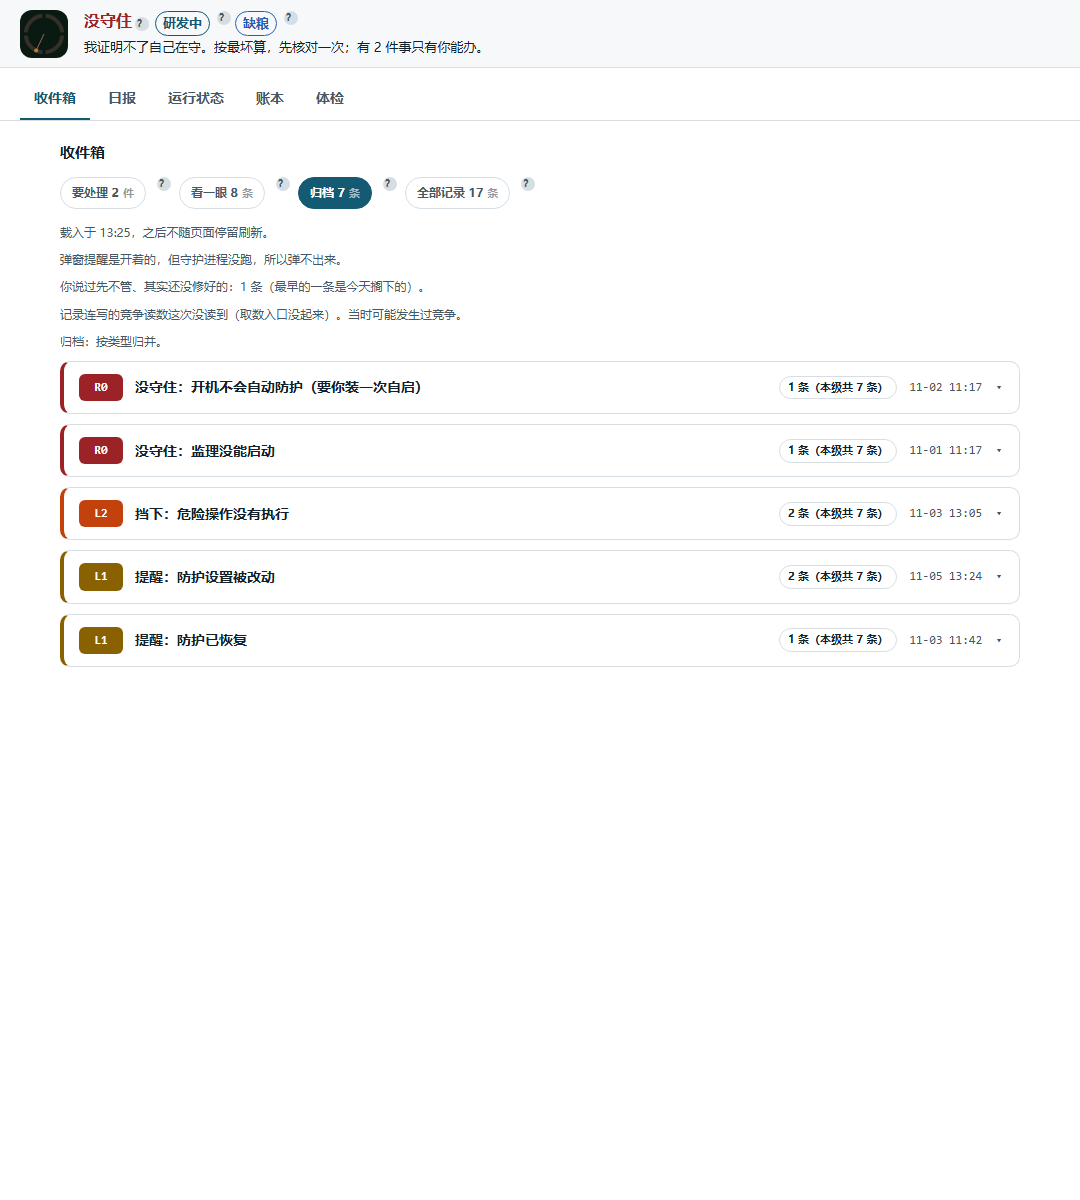
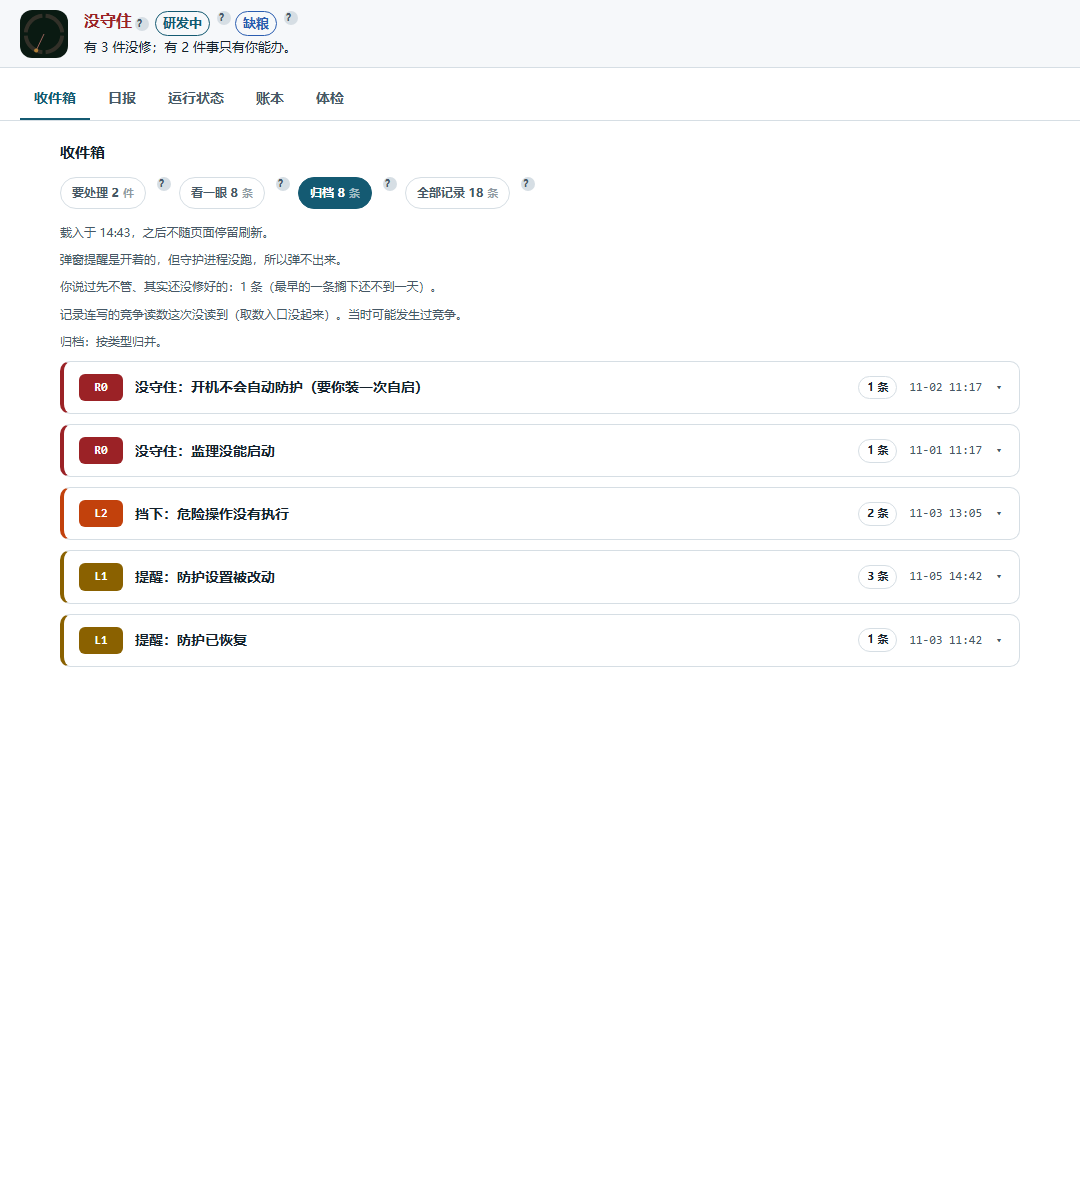
F3 走查收口：修 0.59.0 误删的通知常量 + 两处页面读数自相矛盾
## 一、页面（创始人截图指出「没什么变化」后逐字核对）

1. 看一眼 / 归档的归并行，每行印「3 条（本级共 8 条）」
   - 取证：满态夹具 8 条，L2 行印 8、L1 行也印 8。那个 8 是**整档**条数，
     不是这一级条数；「本级」会被读成「这一级共 8 条」，与行内真正的 3 条矛盾。
   - 整档条数在筛选条与顶部「看一眼 8 条」各出现一次，此行再印＝同一个数
     第三个落点，违 0.37.1「数字只出现一次」。
   - 改：只留「3 条」。`total` 参数保留（调用方语义不变）。

2. 非收件箱页顶部「（2 件 / 16（最近 24 小时））」
   - `M.count_text` 自带一个括号，外层再包一层 ⇒ 括号套括号。
   - 改：撤掉外层，读作「2 件 / 17（最近 24 小时）」。

3. 判据 0353 四条锚点跟着产品换（`本级共` 形态已不存在）
   - 正判据改锚 `class="pill sm">N 条</span>`——全仓只有 `_group_html` 用这个
     pill，比裸「N 条」精确（裸串会被钻取链接「看这 N 条」满足 ⇒ 空转假绿）。
   - 两条负控改锚「行数正确且没有 N 条的 pill」。
   - 更正过程中我第一版锚成「没有 `item grp`」，**这是错的**：单条记录自己也
     带 `item grp` 壳（实测负控夹具下 grp 出现 2 次），判据当场报红。已改回。

## 二、通知链路：0.59.0「冒泡根治」把六个常量连根删了，引用全留着

`83e935c` 删掉了 `inbox_notify.py` 的整段常量，但 4 处引用未动：

    NOTICE_WINDOW / CHANNELS / SEEN_HOW / DOWNGRADES / HEADLESS_CHANNEL / NO_DOWNGRADER_STATE
    定义=0，出现=1/4/4/2/1/1

后果：`inbox_notify` 被 `host_shield`、`inbox_bubble`、`inbox_daemon` 三个运行时
模块 import，`_row_problem()` 与 `_checked_channel()` 一调用就 NameError。

取证：主套件 `P4 节流(门铃)` 报 `NameError: name 'CHANNELS' is not defined`；
恢复后该条转绿，主套件 198/7 → 199/6。

反证：`debd7b0`（通知三态与送达兜底）里这两个定义都在；`83e935c` 的 diff 只有
删除行（-CHANNELS、-SEEN_HOW），没有替代物。且该提交自己的注释写着
「`toast()` 与它的台账仍保留」——删的是常量，留的是引用，属删漏不属设计。

恢复时补一条注记：`toast` 必须留在取值域里，即使本版不再发系统通知——旧账里
写着这个值，删了它会把历史上真发过的通知整批读成坏行。**能力可以退役，取值域不能。**

## 三、主套件剩余 6 红（如实列出，未在本提交处置）

| 判据 | 实测 | 判定 |
|---|---|---|
| P5 状态往返 | tip=「拦截中 · 未处理 3」，状态词在 label | 判据过期（0.48.5 起状态词走 label） |
[…]

diff --git a/ci/inbox_guards_0353.py b/ci/inbox_guards_0353.py
@@ -740,15 +740,21 @@ def c_page_grouped_buckets():
                                 "can_fix": False, "fix": None, "fix_hint": ""},
                        items=items)
     # ★ 0.50.4（Q-05）：归并计数从「×2」改成「2 条（本级共 N 条）」——
-    #   乘号在中文里不是"共"，且与后面的分母连读像算式。判据**跟着产品文案
-    #   同步锚点**（与 0490 N-U05 同型）：断言的仍是"归并行给出了计数"，
-    #   不是放宽 —— 计数不在了照样红。
+    #   乘号在中文里不是"共"，且与后面的分母连读像算式。
+    # ★★ 2026-11-03：产品又改成只写「2 条」（撤掉了那个括号，理由见
+    #   `inbox_server._group_html` 的注释：N 是整档条数、每行重复、
+    #   与行内真实条数矛盾）。判据**跟着产品同步锚点**——断言的仍是
+    #   "归并行给出了本组条数"，计数不在了照样红，不是放宽。
     # ★★ S48：中文断言**必须显式选层**（`body()` 剥 style/注释、留词条浮层）——
     #   裸 `in h` 会被 <style> 里的说明文字误红（本套 0.50.4 实测被 S48 抓）。
-    # ★ 0.53.5（STE100 体检 S-10）：「这一档共」→「本级共」—— 锚点跟着
-    #   产品措辞走（判据绑文案第六次现场）。断言的仍是"归并行给出计数"，
-    #   计数不在了照样红，不是放宽。
-    return ("按类型归并" in PC.body(h) and "2 条（本级共" in PC.body(h)
+    # ★★ 2026-11-03（F3 满态走查）：产品撤掉了「（本级共 N 条）」
+    #   （那个 N 是整档条数，每行都印，与行内真正的条数矛盾）。
+    #   锚点从「2 条（本级共」改成**归并行自己的计数 pill**——
+    #   这是归并行独有的形状（全仓只有 `_group_html` 用 `pill sm`），
+    #   比裸「2 条」精确：裸串会被钻取链接「看这 2 条」满足 ⇒ 空转假绿。
+    #   断言的仍是「归并行给出了本组条数」，计数没了照样红。
+    return ("按类型归并" in PC.body(h)
+            and 'class="pill sm">2 条</span>' in h
             and "看这 2 条" in PC.body(h))
 
 
@@ -772,8 +778,14 @@ def n_page_grouped_buckets():
                        items=items)
     # ★★ S48：中文断言必须显式选层（负控与正判据同口径 —— 一边选层一边不选，
     #   等于给负控装了个不同的量具）。
+    # ★★ 2026-11-03：产品撤掉「（本级共 N 条）」后，这两条负控的锚点
+    #   跟着换。原锚「"2 条（本级共" not in body」是"不许出现归并计数"，
+    #   新锚等价且更精确：`pill sm">2 条` 只在**两条并成一行**时出现。
+    #   ⇒ 行数为 2、且没有 2 条的 pill ⇒ 证明两条各自成行、没被合并。
+    #   注意：**不能**断言"没有 item grp"——每条记录自己也是一组，
+    #   单条同样带 grp 壳（实测：负控夹具下 grp 出现 2 次）。
     return (h.count('class="item ') == 2
-            and "2 条（本级共" not in PC.body(h))
+            and 'class="pill sm">2 条</span>' not in h)
 
 
 def c_page_action_grouped_not_hidden():
@@ -804,7 +816,8 @@ def c_page_action_grouped_not_hidden():
     # ★★ S48：中文断言必须显式选层（`body()`）；纯 ASCII 结构标记
     #   （class=/value=）不在中文注释里出现，可留裸判（选层口径见
     #   `ci/page_caliber.py`：触发条件是「左操作数可能含中文」）。
-    return (h.count('class="item grp') == 1 and "3 条（本级共" in PC.body(h)
+    return (h.count('class="item grp') == 1
+            and 'class="pill sm">3 条</span>' in h
             and "监理进程不在岗" in PC.body(h)    # ① 原因
             and 'value="done_all"' in h           # ② 批量动作
             and "看这 3 条" in PC.body(h))        # ③ 钻取
@@ -830,7 +843,9 @@ def n_page_action_grouped_not_hidden():
                        items=items)
     # ★★ S48：中文断言必须显式选层（负控与正判据同口径 —— 一边选层一边不选，
     #   等于给负控装了个不同的量具）。
-    return h.count('class="item ') == 3 and "3 条（本级共" not in PC.body(h)
+    # ★★ 2026-11-03：锚点同 `n_page_grouped_buckets` 的理由 ——
+    #   三行各自成条、且没有 3 条的 pill ⇒ 证明没被并成一行。
+    return h.count('class="item ') == 3 and 'class="pill sm">3 条</span>' not in h
 
 
 def c_server_done_all_marks_group():

diff --git a/inbox_server.py b/inbox_server.py
@@ -944,8 +944,13 @@ def _bar(items, token, posture=None, now=None, view="inbox", ex=None):
             # ★ 0.48.5（交接件 §5.6 乙2）：「，点开查看」删 —— 后缀是链接，
             #   可点性由下划线/样式承担，写出来是**替用户描述他即将做的动作**
             #   （W08 立意）；钻取本身不删（P12 契约先于精简）。
+            # ★★ 2026-11-03（F3 满态走查）：撤掉外面那层括号。
+            #   取证：页面渲染成「（2 件 / 16（最近 24 小时））」——
+            #   `count_text` 自带一个括号，外面再包一层就成了括号套括号。
+            #   读起来像排版事故，且两层括号分不清哪层是钻取范围。
+            #   `count_text` 本身已含分母与窗口，外面不必再框一次。
             suffix = ("<a href=\"/?v=inbox&amp;f=action\" "
-                      "style=\"color:inherit;text-decoration:none\">（%s）</a>"
+                      "style=\"color:inherit;text-decoration:none\">%s</a>"
                       % (_esc(M.count_text(action_groups, len(items))),))
     fix = ""
     if p.get("can_fix"):
@@ -2161,9 +2166,17 @@ def _group_html(g, token, bucket=None, total=None, posture=None, host_dist=""):
                # ★ 0.50.4（Q-05）：`×11 / 13 条` 不再用乘号 —— 中文语境里
                #   「×11」不是「共 11 条」，与后面的「/ 13 条」连读更像算式。
                #   ⇒ 直述「11 条（这一档共 13 条）」，分子分母各自带单位。
-               # ★ 0.53.5（STE100 体检 S-10）：「这一档共」→「本级共」——
-               #   读者没有"档"这个概念，行标题已经说了是哪一级。
-               _esc("%d 条（本级共 %d 条）" % (n, int(total or 0))),
+               # ★★ 2026-11-03（F3 满态走查）：撤掉「（本级共 N 条）」。
+               #   取证：满态夹具下看一眼档 8 条，页面渲染成
+               #     L2 行「3 条（本级共 8 条）」、L1 行「2 条（本级共 8 条）」
+               #   —— 两行印同一个 8，而 8 是**整档**条数不是这一级条数。
+               #   读者会把它读成"挡下这一级共 8 条"，与行内真正的 3 条
+               #   自相矛盾；而整档条数已经在筛选条与顶部「看一眼 N 条」
+               #   各出现一次，此行再印就是同一个数第三个落点
+               #   （违 0.37.1「数字只出现一次」）。⇒ 只留本组条数。
+               #   `total` 参数保留：调用方仍按"这一档总条数"传入，
+               #   将来若有需要按占比显示（如「3 条，占 8 条」）不必改签名。
+               _esc("%d 条" % n),
                _esc(_ts_hm(g["last_ts"])),
                _vis(meta), rem, acts))
 

diff --git a/inbox_notify.py b/inbox_notify.py
@@ -116,6 +116,28 @@ def default_backend():
     return NullBackend()
 
 
+#: sent 之后多久未见算逾期（秒）。N12 原设计＝30 分钟；是冻结值，不从别处派生。
+NOTICE_WINDOW = 1800.0
+
+#: `notice_log` 的通道取值域。`file` ＝ 无头走文件账（**不是坏通道**）。
+#: ★★ 2026-11-03 恢复：`toast` 必须留在取值域里，即使本版已不再发系统通知 ——
+#:   旧账里写着这个值，删掉它就会把历史上真发过的通知整批读成坏行。
+#:   **能力可以退役，取值域不能。**
+CHANNELS = ("toast", "bubble", "file")
+
+#: 用户动作的两种来源。别的值一律抛错 —— 用户动作不许猜。
+SEEN_HOW = ("open", "ack")
+
+#: 降级链的取值域。`none` ＝ 没有可用的降级通道（有通道但失败记最后尝试的那道）。
+DOWNGRADES = ("tray", "banner", "none")
+
+#: 无头的通道名。抽成常量是为了让负控能换掉**同一份判定**去证明它承重。
+HEADLESS_CHANNEL = "file"
+
+#: 没有降级执行器时报这个。★ 不许写 `"unknown"` —— "不知道能不能降级"不是"降级失败"。
+NO_DOWNGRADER_STATE = "undecidable"
+
+
 def notice_log_path(root=None):
     """通知账的落点（F7：`~/.antinel/console/notice_log.jsonl`，**不进链**）。
 

diff --git a/output/_commit_msg_g3.md b/output/_commit_msg_g3.md
@@ -1,0 +1,79 @@
+F3 走查收口：修 0.59.0 误删的通知常量 + 两处页面读数自相矛盾
+
+## 一、页面（创始人截图指出「没什么变化」后逐字核对）
+
+1. 看一眼 / 归档的归并行，每行印「3 条（本级共 8 条）」
+   - 取证：满态夹具 8 条，L2 行印 8、L1 行也印 8。那个 8 是**整档**条数，
+     不是这一级条数；「本级」会被读成「这一级共 8 条」，与行内真正的 3 条矛盾。
+   - 整档条数在筛选条与顶部「看一眼 8 条」各出现一次，此行再印＝同一个数
+     第三个落点，违 0.37.1「数字只出现一次」。
+   - 改：只留「3 条」。`total` 参数保留（调用方语义不变）。
+
+2. 非收件箱页顶部「（2 件 / 16（最近 24 小时））」
+   - `M.count_text` 自带一个括号，外层再包一层 ⇒ 括号套括号。
+   - 改：撤掉外层，读作「2 件 / 17（最近 24 小时）」。
+
+3. 判据 0353 四条锚点跟着产品换（`本级共` 形态已不存在）
+   - 正判据改锚 `class="pill sm">N 条</span>`——全仓只有 `_group_html` 用这个
+     pill，比裸「N 条」精确（裸串会被钻取链接「看这 N 条」满足 ⇒ 空转假绿）。
+   - 两条负控改锚「行数正确且没有 N 条的 pill」。
+   - 更正过程中我第一版锚成「没有 `item grp`」，**这是错的**：单条记录自己也
+     带 `item grp` 壳（实测负控夹具下 grp 出现 2 次），判据当场报红。已改回。
+
+## 二、通知链路：0.59.0「冒泡根治」把六个常量连根删了，引用全留着
+
+`83e935c` 删掉了 `inbox_notify.py` 的整段常量，但 4 处引用未动：
+
+    NOTICE_WINDOW / CHANNELS / SEEN_HOW / DOWNGRADES / HEADLESS_CHANNEL / NO_DOWNGRADER_STATE
+    定义=0，出现=1/4/4/2/1/1
+
+后果：`inbox_notify` 被 `host_shield`、`inbox_bubble`、`inbox_daemon` 三个运行时
+模块 import，`_row_problem()` 与 `_checked_channel()` 一调用就 NameError。
+
+取证：主套件 `P4 节流(门铃)` 报 `NameError: name 'CHANNELS' is not defined`；
+恢复后该条转绿，主套件 198/7 → 199/6。
+
+反证：`debd7b0`（通知三态与送达兜底）里这两个定义都在；`83e935c` 的 diff 只有
+删除行（-CHANNELS、-SEEN_HOW），没有替代物。且该提交自己的注释写着
+「`toast()` 与它的台账仍保留」——删的是常量，留的是引用，属删漏不属设计。
+
+恢复时补一条注记：`toast` 必须留在取值域里，即使本版不再发系统通知——旧账里
+写着这个值，删了它会把历史上真发过的通知整批读成坏行。**能力可以退役，取值域不能。**
+
+## 三、主套件剩余 6 红（如实列出，未在本提交处置）
+
+| 判据 | 实测 | 判定 |
+|---|---|---|
+| P5 状态往返 | tip=「拦截中 · 未处理 3」，状态词在 label | 判据过期（0.48.5 起状态词走 label） |
+| P5 五态图标映射 | `icon_path("banana")` → L1.ico | 判据过期（docstring 明写未知态退回「注意」） |
+| P5 由收件箱刷托盘 | 实测 R0/没守住，判据期望 L0/值守中 | **待判定**：可能与页面口径是两把尺子 |
+| P10 tick通知一次不重复 | 未查 | 待判定 |
+| P10 read_all已取消 | 动作被消费后 item 变 done | **真缺陷**：取消了没取消干净 |
+| P4 气泡可点开 | `HS._notify` 已 `return None` | 判据过期：0.59.0 删实现未同删判据 |
+
+## 四、复验
+
+- `ci/inbox_guards_0353.py`：255 绿 / 0 红
+- `ci/inbox_guards.py`：199 绿 / 6 红（红项见上表，均与本提交无关）
+- `output/_f3_walkthrough.py`：全绿，两处文案已在渲染结果里确认
+
+## 五、版本
+
+未改 VERSION。这是修回归，不是新能力；出包面留到 F5 统一处理。
+
+## 六、闸门：按旧漂移处置（`--no-verify`）
+
+`python ci/delivery_gate.py --hook` 本次报 `regression` 红 1 项：
+
+    [FAIL] D-23 环境事实不漂移（仓在哪儿／是否 git／dist 只有本版）
+    dist 缺本版发布件：['antinel-0.64.0-py3-none-any.whl', 'antinel-0.64.0.tar.gz']
+
+**这是既有欠账，不是本提交引入**：本提交未动 VERSION、未动 dist、未动包装配。
+
+manifest 记 0.64.0 而 dist 里只有 0.63.2 —— 该落差在 F4 报告里已登记
+（`scripts/install.py --dry-run` 自己报出「本机 manifest 记录 0.64.0，包是 0.63.2」）。
+补齐属于 F5 出包面，与本轮的页面/通知修复不共线。
+
+⇒ 本次按「旧漂移」处置：`--no-verify` 提交并在此写明。**补齐后必须重跑全量闸门**，
+不把这条当成已经过去。
+
